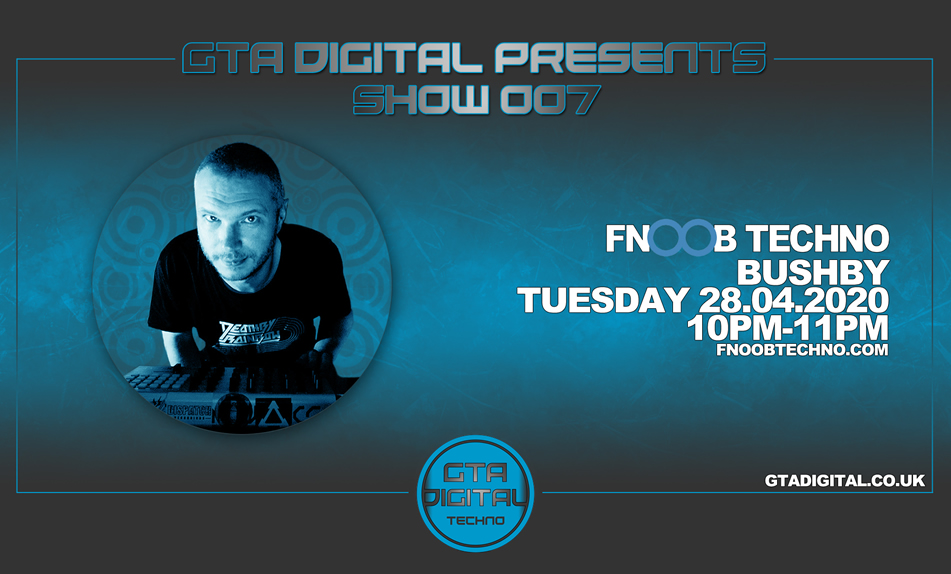
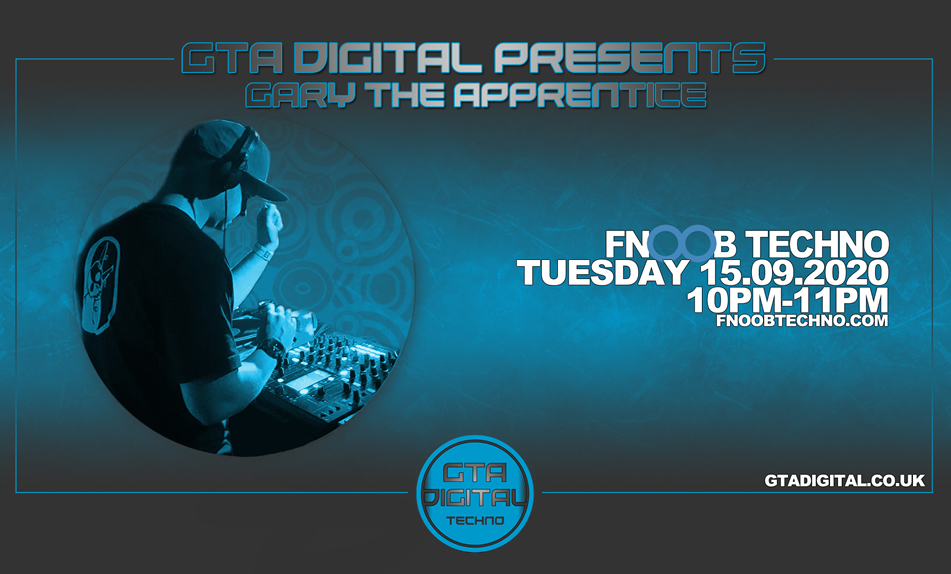
Latest News Updates
Image and text changes in latest-news component

diff --git a/src/app/main/latest-news/latest-news.component.html b/src/app/main/latest-news/latest-news.component.html
@@ -3,17 +3,17 @@
     <div class="pageElement">
         <img class="latestNewsImg" src="assets/images/card-images/latest-news-images/item1.jpg">
         <div class="latestNewsText">
-            <h3>GTA Digital Presents - May 2020</h3>
-            <p>This months instalment of GTA Digital Presents sees Scottish Techno DJ, Kyle Horne, take the reins.<br>Expect an hour of straight bangers.</p>
-            <p>You can tune in on Tuesday 26 May, from 10-11pm, over at <a href="https://fnoobtechno.com" target="blank">Fnoob Techno Radio<img class="external-link" src="../../../assets/images/small-images/icons/external-link.png"></a></p>
+            <h3>GTA Digital Presents: Gary The Apprentice</h3>
+            <p>GTA Digital Presents returns for the September installment of the show. If you have tuned in to previous shows you'll know what to expect by now, straight up, solid techno.</p>
+            <p>The show airs on 15 September from 10-11pm, over at <a href="https://fnoobtechno.com" target="blank">Fnoob Techno Radio<img class="external-link" src="../../../assets/images/small-images/icons/external-link.png"></a></p>
         </div>
     </div>
 
     <div class="pageElement">
         <img class="latestNewsImg" src="assets/images/card-images/latest-news-images/item2.jpg">
         <div class="latestNewsText">
-            <h3>Online Now: GTA Digital Podcast #26</h3>
-            <p>The GTA Digital Podcast is back, following this months show on Fnoob Techno Radio, which saw Leeds(UK) based DJ, Bushby, take the reins, laying down an hour of some excellent techno. Starting off with something a bit more breaky, but soon into the straight up bangers.</p>
+            <h3>Online Now: GTA Digital Podcast #30</h3>
+            <p>Podcast Info - Update Player below</p>
             <div class="trackList">
                 <div class="collapsible-TL" @fadeIn *ngIf="!isCollapsed1">
                     <p><iframe scrolling="no" id="hearthis_at_track_4672202" width="100%" height="130" src="https://app.hearthis.at/embed/4672202/transparent/?hcolor=666666&color=0193b7&style=1&block_size=2&block_space=1&background=0&waveform=0&cover=0&autoplay=0&css=" frameborder="0" allowtransparency allow="autoplay"><p>Listen to <a href="https://hearthis.at/gtadigital-podcast-series/gta-digital-podcast-26-mixed-by-bushby/" target="_blank">GTA Digital Podcast #26, mixed by Bushby</a> <span>by</span><a href="https://hearthis.at/gtadigital-podcast-series/" target="_blank" >GTA Digital - Podcast Series</a> <span>on</span> <a href="https://hearthis.at/" target="_blank">hearthis.at</a></p></iframe></p>
@@ -26,8 +26,8 @@
     <div class="pageElement">
         <img class="latestNewsImg" src="assets/images/card-images/latest-news-images/item3.jpg">
         <div class="latestNewsText">
-            <h3>Online Now: GTA Digital Podcast #25</h3>
-            <p>The GTA Digital Podcast is back, with myself, Gary The Apprentice, laying down some techno for ya'll. This time something a bit different, and something that I've never done before. For this show I've decided to put a set together in Ableton.</p>
+            <h3>Online Now: GTA Digital Podcast #29</h3>
+            <p>Podcast Info - Update Player below</p>
             <div class="collapsible-TL" @fadeIn *ngIf="!isCollapsed2">
                 <p><iframe scrolling="no" id="hearthis_at_track_4561994" width="100%" height="130" src="https://app.hearthis.at/embed/4561994/transparent/?hcolor=666666&color=0193b7&style=1&block_size=2&block_space=1&background=0&waveform=0&cover=1&autoplay=0&css=" frameborder="0" allowtransparency allow="autoplay"><p>Listen to <a href="https://hearthis.at/gtadigital-podcast-series/gta-digital-podcast-25-by-gary-the-apprentice/" target="_blank">GTA Digital Podcast #25, by Gary The Apprentice</a> <span>by</span><a href="https://hearthis.at/gtadigital-podcast-series/" target="_blank" >GTA Digital - Podcast Series</a> <span>on</span> <a href="https://hearthis.at/" target="_blank">hearthis.at</a></p></iframe></p>
             </div>
